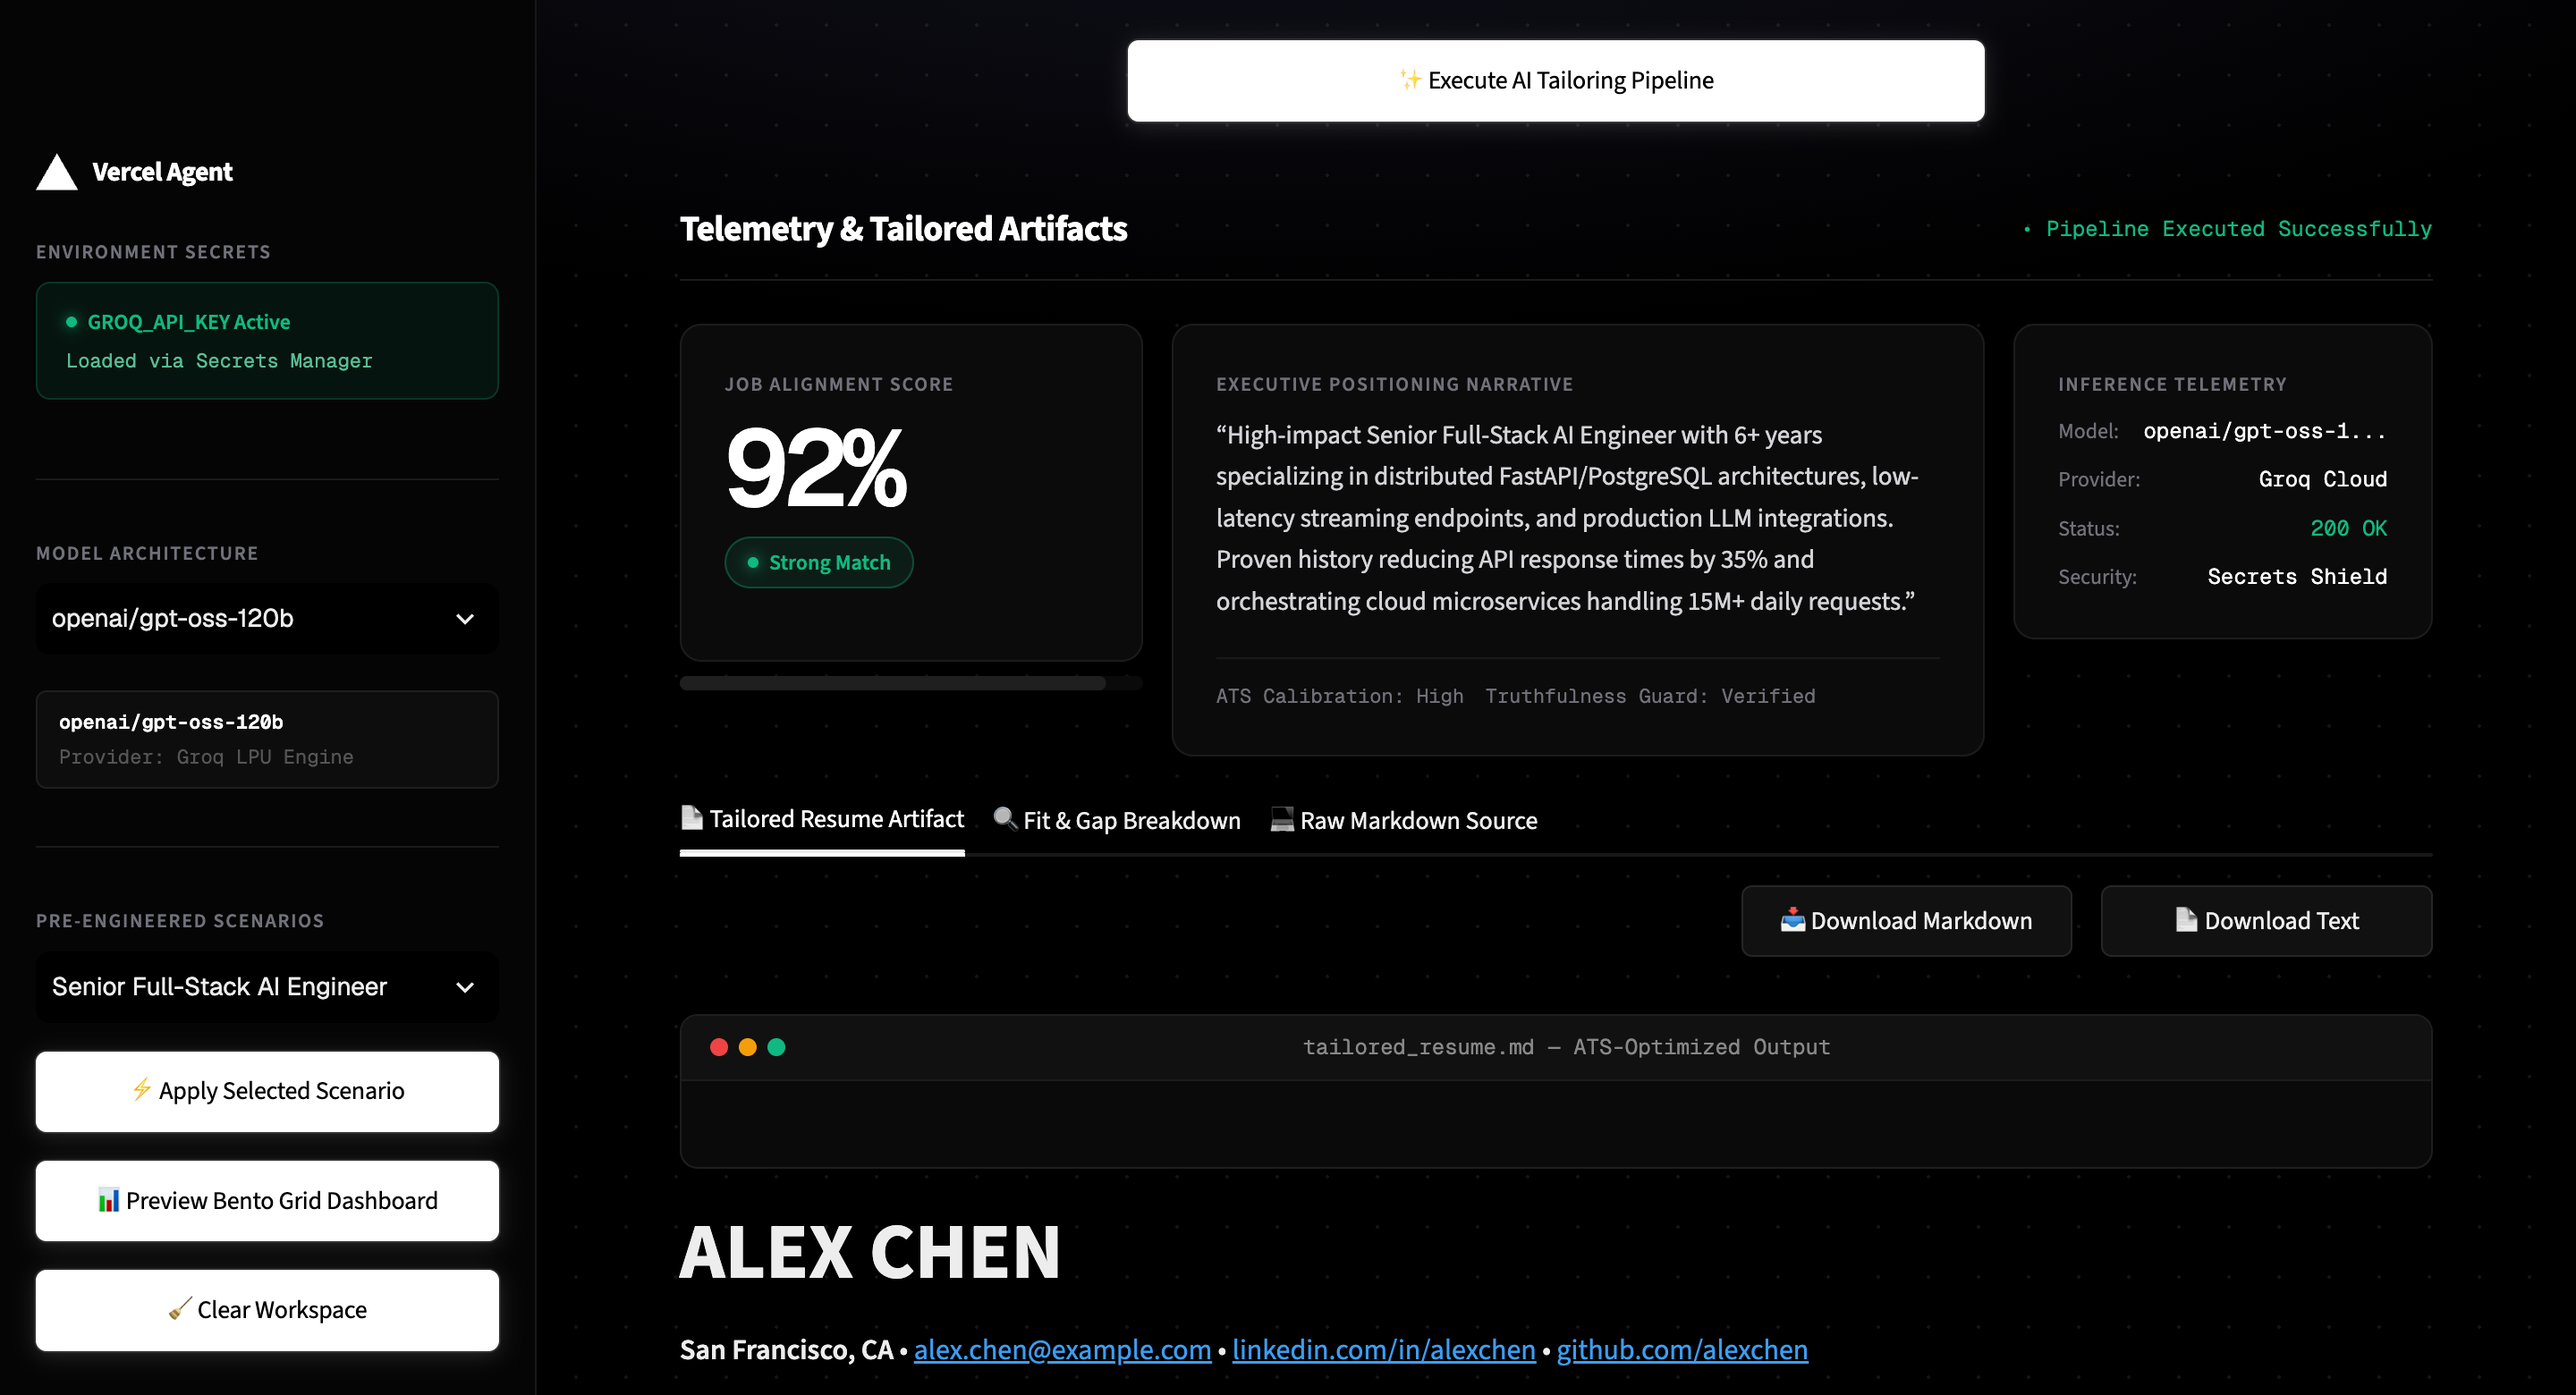
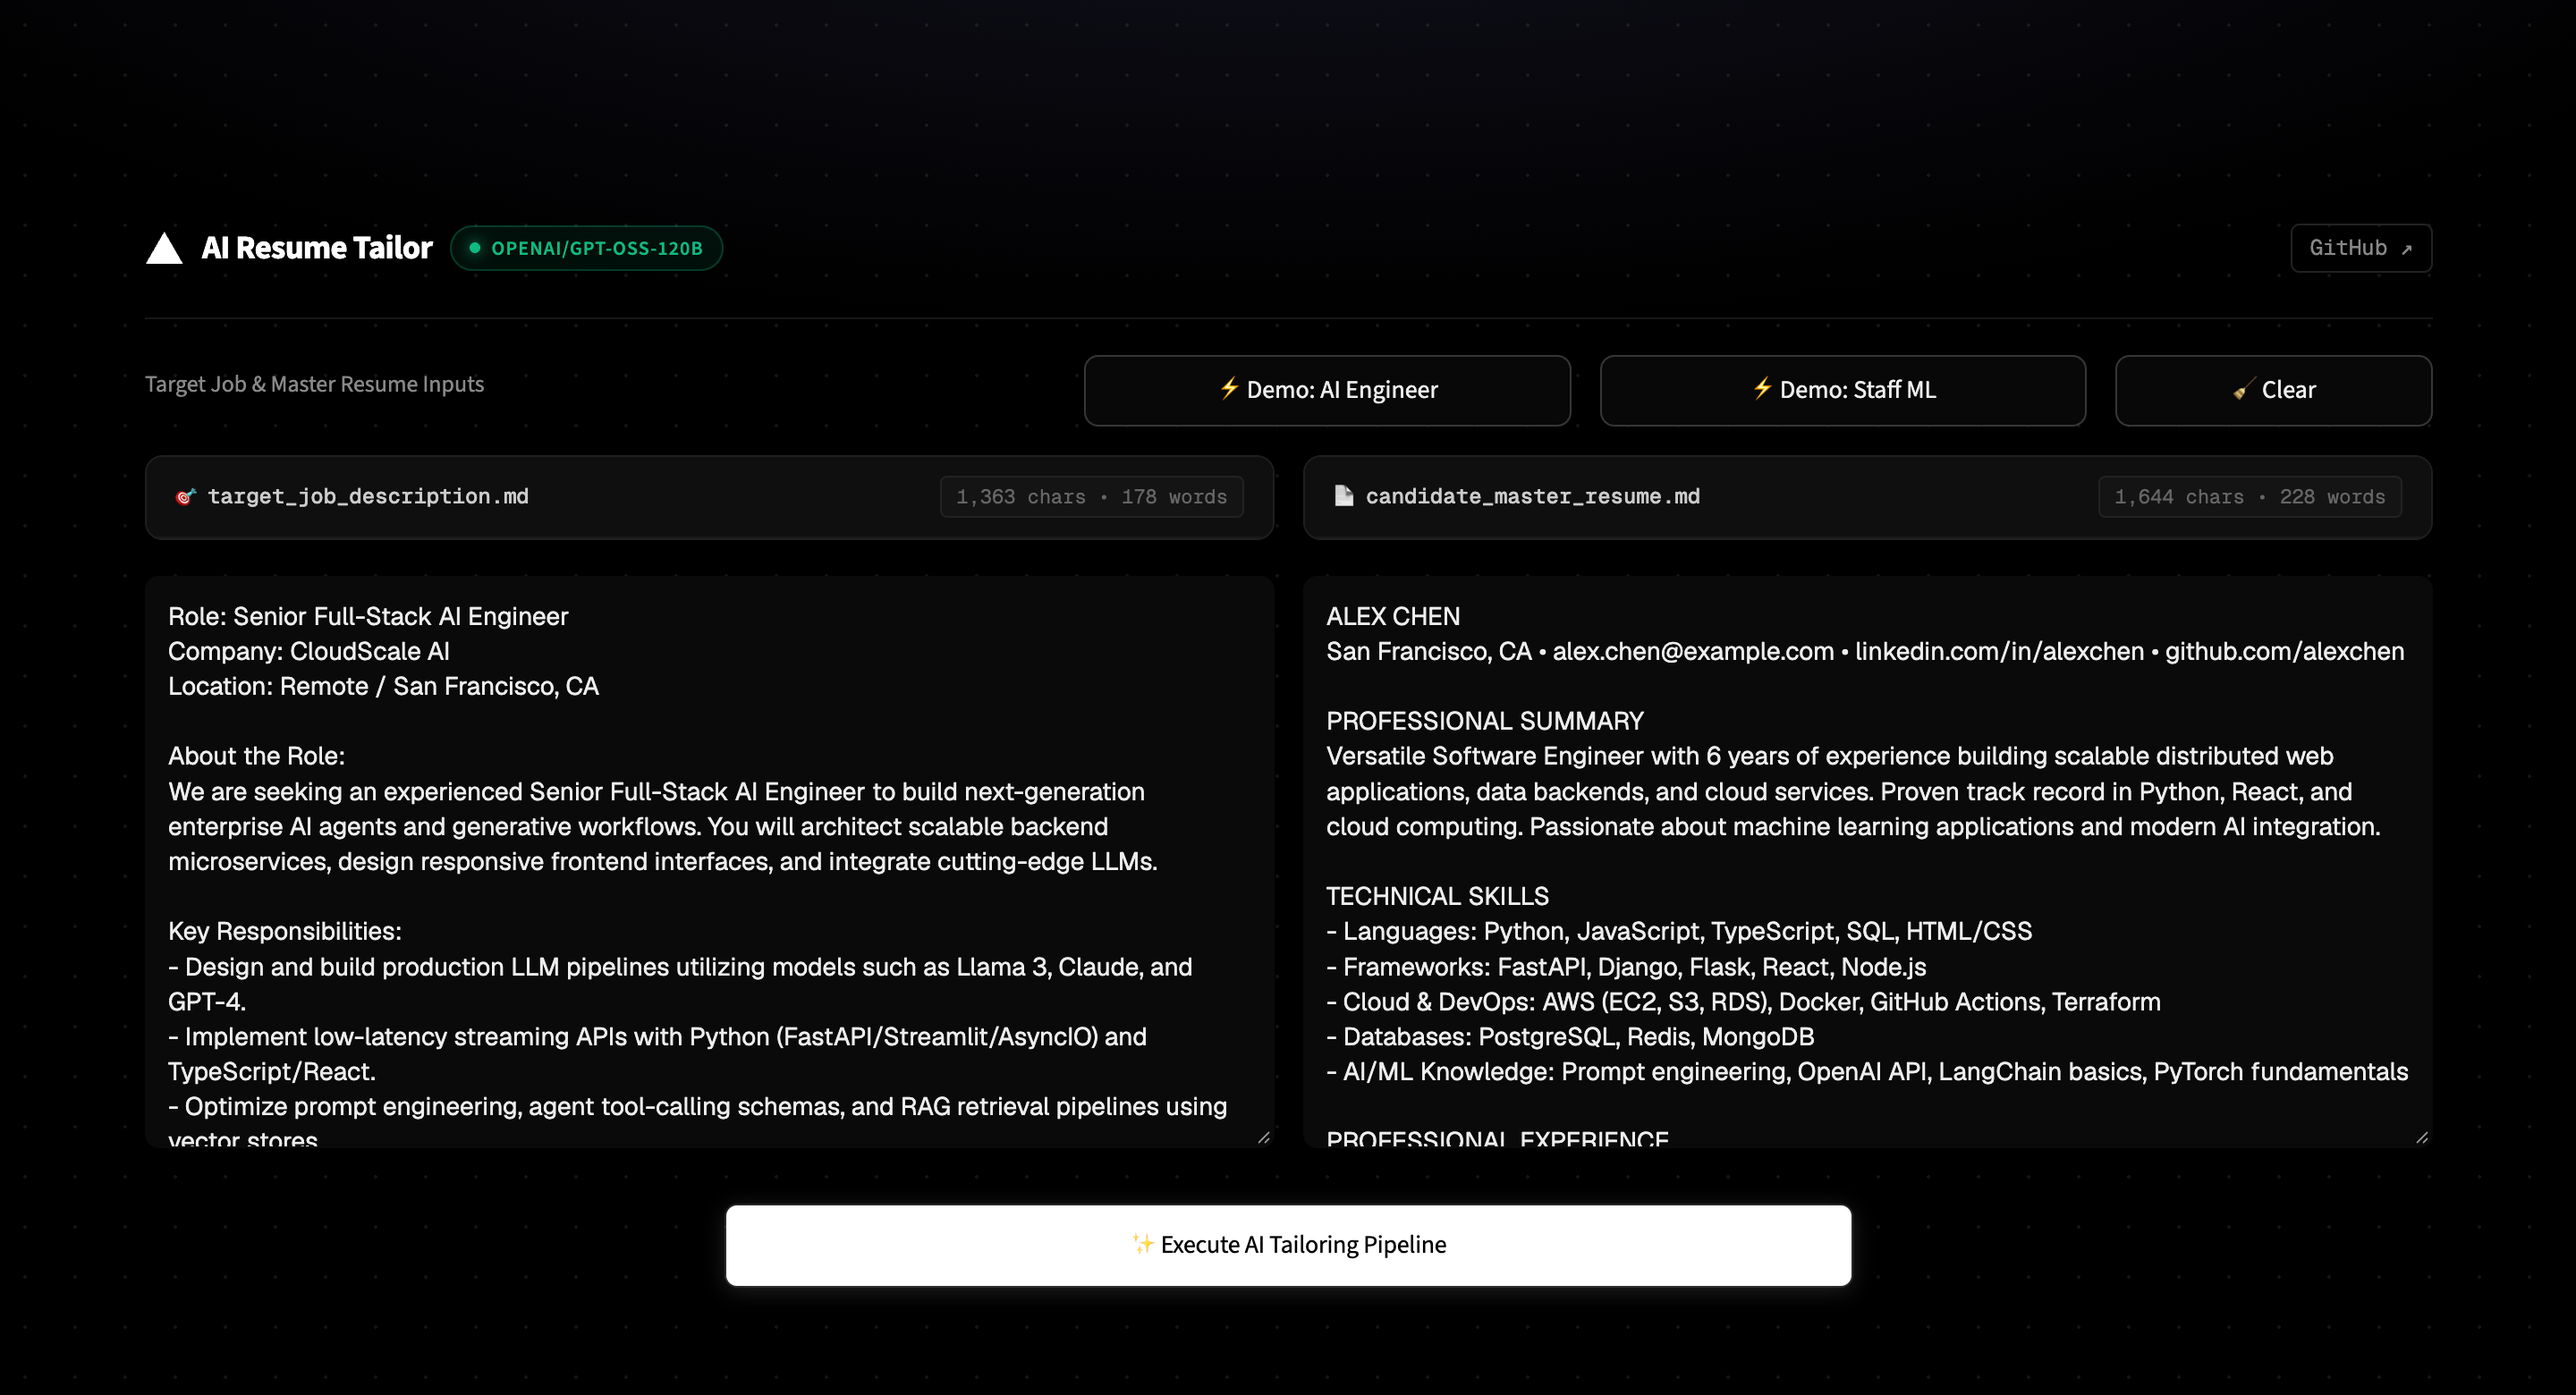
refactor: eliminate vanity stat clutter, streamline UI, and auto-populate demo data

diff --git a/index.html b/index.html
@@ -63,40 +63,38 @@
 <body class="min-h-screen flex flex-col antialiased selection:bg-neutral-800 selection:text-white">
 
   <!-- Top Navigation Bar -->
-  <header class="border-b border-[#1A1A1A] bg-black/60 backdrop-blur-md sticky top-0 z-50">
-    <div class="max-w-6xl mx-auto px-6 h-16 flex items-center justify-between">
+  <header class="border-b border-[#1A1A1A] bg-black/80 backdrop-blur-md sticky top-0 z-50">
+    <div class="max-w-6xl mx-auto px-6 h-14 flex items-center justify-between">
       <div class="flex items-center gap-3">
         <svg class="w-5 h-4 fill-white" viewBox="0 0 76 65">
           <path d="M37.5274 0L75.0548 65H0L37.5274 0Z" />
         </svg>
-        <span class="text-neutral-600 font-light">/</span>
-        <span class="text-white font-semibold tracking-tight text-sm">resume-intelligence</span>
-      </div>
-      <div class="flex items-center gap-3">
-        <div class="flex items-center gap-2 px-3 py-1 rounded-full bg-emerald-950/40 border border-emerald-500/20 text-emerald-400 text-xs font-medium">
+        <span class="text-white font-bold tracking-tight text-sm">AI Resume Tailor</span>
+        <div class="hidden sm:flex items-center gap-2 px-2.5 py-0.5 rounded-full bg-emerald-950/40 border border-emerald-500/20 text-emerald-400 text-xs font-mono">
           <span class="pulse-dot"></span>
           <span id="model-nav-badge">openai/gpt-oss-120b</span>
         </div>
-        <a href="https://github.com/Kadin-Demarche/ai-resume-tailor" target="_blank" class="px-3 py-1 rounded-md text-xs font-medium text-neutral-400 hover:text-white border border-[#222] hover:border-neutral-700 transition">GitHub</a>
+      </div>
+      <div class="flex items-center gap-3">
+        <span class="text-xs text-neutral-500 font-mono hidden md:inline">Groq LPU Inference</span>
+        <a href="https://github.com/Kadin-Demarche/ai-resume-tailor" target="_blank" class="px-3 py-1 rounded-md text-xs font-medium text-neutral-300 hover:text-white border border-[#262626] hover:border-neutral-600 transition">GitHub ↗</a>
       </div>
     </div>
   </header>
 
   <!-- Main Content Container -->
-  <main class="max-w-6xl mx-auto px-6 py-10 flex-1 w-full">
+  <main class="max-w-6xl mx-auto px-6 py-6 flex-1 w-full">
     
-    <!-- Hero Section -->
-    <div class="mb-10 text-center max-w-3xl mx-auto">
-      <div class="inline-flex items-center gap-2 px-3 py-1 rounded-full bg-white/5 border border-white/10 text-xs text-neutral-400 mb-4">
-        <span class="w-1.5 h-1.5 rounded-full bg-sky-400 shadow-[0_0_6px_#38BDF8]"></span>
-        <span>Groq LPU Engine &bull; High-Throughput Inference</span>
+    <!-- Subheader Info -->
+    <div class="mb-6 flex flex-col md:flex-row md:items-center justify-between gap-2 border-b border-[#1A1A1A] pb-4">
+      <div>
+        <h1 class="text-lg font-bold text-white tracking-tight">Executive Resume Tailoring Workspace</h1>
+        <p class="text-neutral-400 text-xs mt-0.5">Evaluate qualification fit, diagnose keyword gaps, and generate ATS-optimized resumes.</p>
       </div>
-      <h1 class="hero-heading text-4xl sm:text-5xl font-extrabold tracking-tight mb-4 leading-tight">
-        Targeted Resume Engineering.
-      </h1>
-      <p class="text-neutral-400 text-base sm:text-lg leading-relaxed">
-        Analyze qualification fit against any job description, diagnose skill gaps, and generate an ATS-optimized tailored resume powered by Groq & openai/gpt-oss-120b.
-      </p>
+      <div class="flex items-center gap-2 text-xs font-mono text-neutral-400">
+        <span class="w-2 h-2 rounded-full bg-emerald-400"></span>
+        <span>Demo Data Preloaded</span>
+      </div>
     </div>
 
     <!-- Configuration Bar -->
@@ -107,8 +105,8 @@
         <button onclick="saveApiKey()" class="px-3 py-1.5 bg-neutral-800 hover:bg-neutral-700 text-xs text-white font-medium rounded-md border border-neutral-700 transition">Save Key</button>
       </div>
       <div class="flex items-center gap-2">
-        <button onclick="loadScenario('senior')" class="px-3 py-1.5 bg-[#141414] hover:bg-[#1E1E1E] text-xs text-neutral-300 font-medium rounded-md border border-[#262626] hover:border-neutral-600 transition">⚡ Scenario: Senior AI Eng</button>
-        <button onclick="loadScenario('ml')" class="px-3 py-1.5 bg-[#141414] hover:bg-[#1E1E1E] text-xs text-neutral-300 font-medium rounded-md border border-[#262626] hover:border-neutral-600 transition">⚡ Scenario: Staff ML</button>
+        <button onclick="loadScenario('senior')" class="px-3 py-1.5 bg-[#141414] hover:bg-[#1E1E1E] text-xs text-neutral-300 font-medium rounded-md border border-[#262626] hover:border-neutral-600 transition">⚡ Demo: AI Engineer</button>
+        <button onclick="loadScenario('ml')" class="px-3 py-1.5 bg-[#141414] hover:bg-[#1E1E1E] text-xs text-neutral-300 font-medium rounded-md border border-[#262626] hover:border-neutral-600 transition">⚡ Demo: Staff ML</button>
         <button onclick="clearWorkspace()" class="px-3 py-1.5 bg-[#141414] hover:bg-[#1E1E1E] text-xs text-neutral-400 hover:text-white font-medium rounded-md border border-[#262626] transition">🧹 Clear</button>
       </div>
     </div>
@@ -283,8 +281,8 @@
       const jVal = document.getElementById('jobDescInput').value;
       const rVal = document.getElementById('masterResumeInput').value;
       
-      const jWords = jVal.trim() ? jVal.trim().split(/\\s+/).length : 0;
-      const rWords = rVal.trim() ? rVal.trim().split(/\\s+/).length : 0;
+      const jWords = jVal.trim() ? jVal.trim().split(/\s+/).length : 0;
+      const rWords = rVal.trim() ? rVal.trim().split(/\s+/).length : 0;
 
       document.getElementById('jobStats').textContent = `${jVal.length.toLocaleString()} chars • ${jWords.toLocaleString()} words`;
       document.getElementById('resumeStats').textContent = `${rVal.length.toLocaleString()} chars • ${rWords.toLocaleString()} words`;
@@ -293,8 +291,8 @@
     function loadScenario(type) {
       const item = SCENARIOS[type];
       if (item) {
-        document.getElementById('jobDescInput').value = item.job.replace(/\\n/g, '\\n');
-        document.getElementById('masterResumeInput').value = item.resume.replace(/\\n/g, '\\n');
+        document.getElementById('jobDescInput').value = item.job;
+        document.getElementById('masterResumeInput').value = item.resume;
         updateStats();
       }
     }

diff --git a/app.py b/app.py
@@ -562,6 +562,12 @@ ML Engineer | Algorithmic Vision | 2018 – 2021
     }
 }
 
+# Pre-populate demo data if not already present
+if "job_description_input" not in st.session_state:
+    st.session_state["job_description_input"] = PRESETS["Senior Full-Stack AI Engineer"]["job"]
+if "master_resume_input" not in st.session_state:
+    st.session_state["master_resume_input"] = PRESETS["Senior Full-Stack AI Engineer"]["resume"]
+
 SAMPLE_ANALYSIS_PREVIEW = {
     "match_percentage": 92,
     "match_verdict": "Strong Match",
@@ -816,66 +822,47 @@ with st.sidebar:
     """, unsafe_allow_html=True)
 
 
-# --- Main Application Header Bar ---
-st.markdown("""
-<div class="vercel-top-nav">
-    <div class="vercel-brand-group">
-        <svg class="vercel-triangle" viewBox="0 0 76 65">
+# --- Main Application Header & Quick Actions ---
+st.markdown(f"""
+<div class="vercel-top-nav" style="margin-bottom: 1.25rem;">
+    <div style="display: flex; align-items: center; gap: 10px;">
+        <svg class="vercel-triangle" viewBox="0 0 76 65" style="width: 22px; height: 18px;">
             <path d="M37.5274 0L75.0548 65H0L37.5274 0Z" />
         </svg>
-        <span class="nav-slash">/</span>
-        <span class="nav-team">antigravity</span>
-        <span class="nav-slash">/</span>
-        <span class="nav-project">resume-intelligence</span>
-    </div>
-    <div class="vercel-nav-actions">
+        <span style="font-size: 1.15rem; font-weight: 700; color: #FFFFFF; letter-spacing: -0.02em;">AI Resume Tailor</span>
         <span class="vercel-status-pill">
             <span class="pulse-dot"></span>
-            Production
+            {active_model}
         </span>
-        <span style="font-family: var(--font-mono); font-size: 11px; color: #71717A; border: 1px solid #222; padding: 2px 8px; border-radius: 4px;">
-            Groq LPU
-        </span>
+    </div>
+    <div style="display: flex; align-items: center; gap: 8px;">
+        <a href="https://github.com/Kadin-Demarche/ai-resume-tailor" target="_blank" style="text-decoration: none; color: #888888; font-size: 12px; font-family: var(--font-mono); border: 1px solid #222; padding: 3px 10px; border-radius: 5px;">GitHub ↗</a>
     </div>
 </div>
 """, unsafe_allow_html=True)
 
-# --- Hero Section ---
-st.markdown(f"""
-<div class="vercel-hero">
-    <div class="announcement-badge">
-        <span class="announcement-dot"></span>
-        <span>Engine Active &nbsp;•&nbsp; {active_model}</span>
-        <span>→</span>
-    </div>
-    <div class="hero-title">High-Velocity Resume Intelligence.</div>
-    <div class="hero-subtitle">
-        Architect tailored, ATS-dominant resumes aligned with target positions in milliseconds.
-        Powered by Groq's high-throughput LPU inference stack and deep reasoning models.
-    </div>
-    <div class="hero-telemetry-bar">
-        <div class="telemetry-item">
-            <span class="telemetry-val">&lt; 1.2s</span>
-            <span class="telemetry-label">Inference Target</span>
-        </div>
-        <div class="telemetry-sep"></div>
-        <div class="telemetry-item">
-            <span class="telemetry-val">100%</span>
-            <span class="telemetry-label">Local Secrets</span>
-        </div>
-        <div class="telemetry-sep"></div>
-        <div class="telemetry-item">
-            <span class="telemetry-val">120B</span>
-            <span class="telemetry-label">Reasoning Params</span>
-        </div>
-        <div class="telemetry-sep"></div>
-        <div class="telemetry-item">
-            <span class="telemetry-val">ATS+</span>
-            <span class="telemetry-label">Keyword Density</span>
-        </div>
-    </div>
-</div>
-""", unsafe_allow_html=True)
+# Functional Toolbar directly above text inputs
+tbar_c1, tbar_c2, tbar_c3, tbar_c4 = st.columns([2.2, 1.2, 1.2, 0.8])
+with tbar_c1:
+    st.markdown("<div style='font-size: 13px; color: #888; padding-top: 6px;'>Target Job &amp; Master Resume Inputs</div>", unsafe_allow_html=True)
+with tbar_c2:
+    if st.button("⚡ Demo: AI Engineer", use_container_width=True, help="Load pre-engineered Senior AI Engineer demo"):
+        st.session_state["job_description_input"] = PRESETS["Senior Full-Stack AI Engineer"]["job"]
+        st.session_state["master_resume_input"] = PRESETS["Senior Full-Stack AI Engineer"]["resume"]
+        st.rerun()
+with tbar_c3:
+    if st.button("⚡ Demo: Staff ML", use_container_width=True, help="Load pre-engineered Staff ML Engineer demo"):
+        st.session_state["job_description_input"] = PRESETS["Staff Machine Learning Engineer"]["job"]
+        st.session_state["master_resume_input"] = PRESETS["Staff Machine Learning Engineer"]["resume"]
+        st.rerun()
+with tbar_c4:
+    if st.button("🧹 Clear", use_container_width=True, help="Wipe workspace textareas"):
+        st.session_state["job_description_input"] = ""
+        st.session_state["master_resume_input"] = ""
+        if "analysis_result" in st.session_state:
+            del st.session_state["analysis_result"]
+        st.rerun()
+
 
 
 # --- Input Workspace Panels ---
